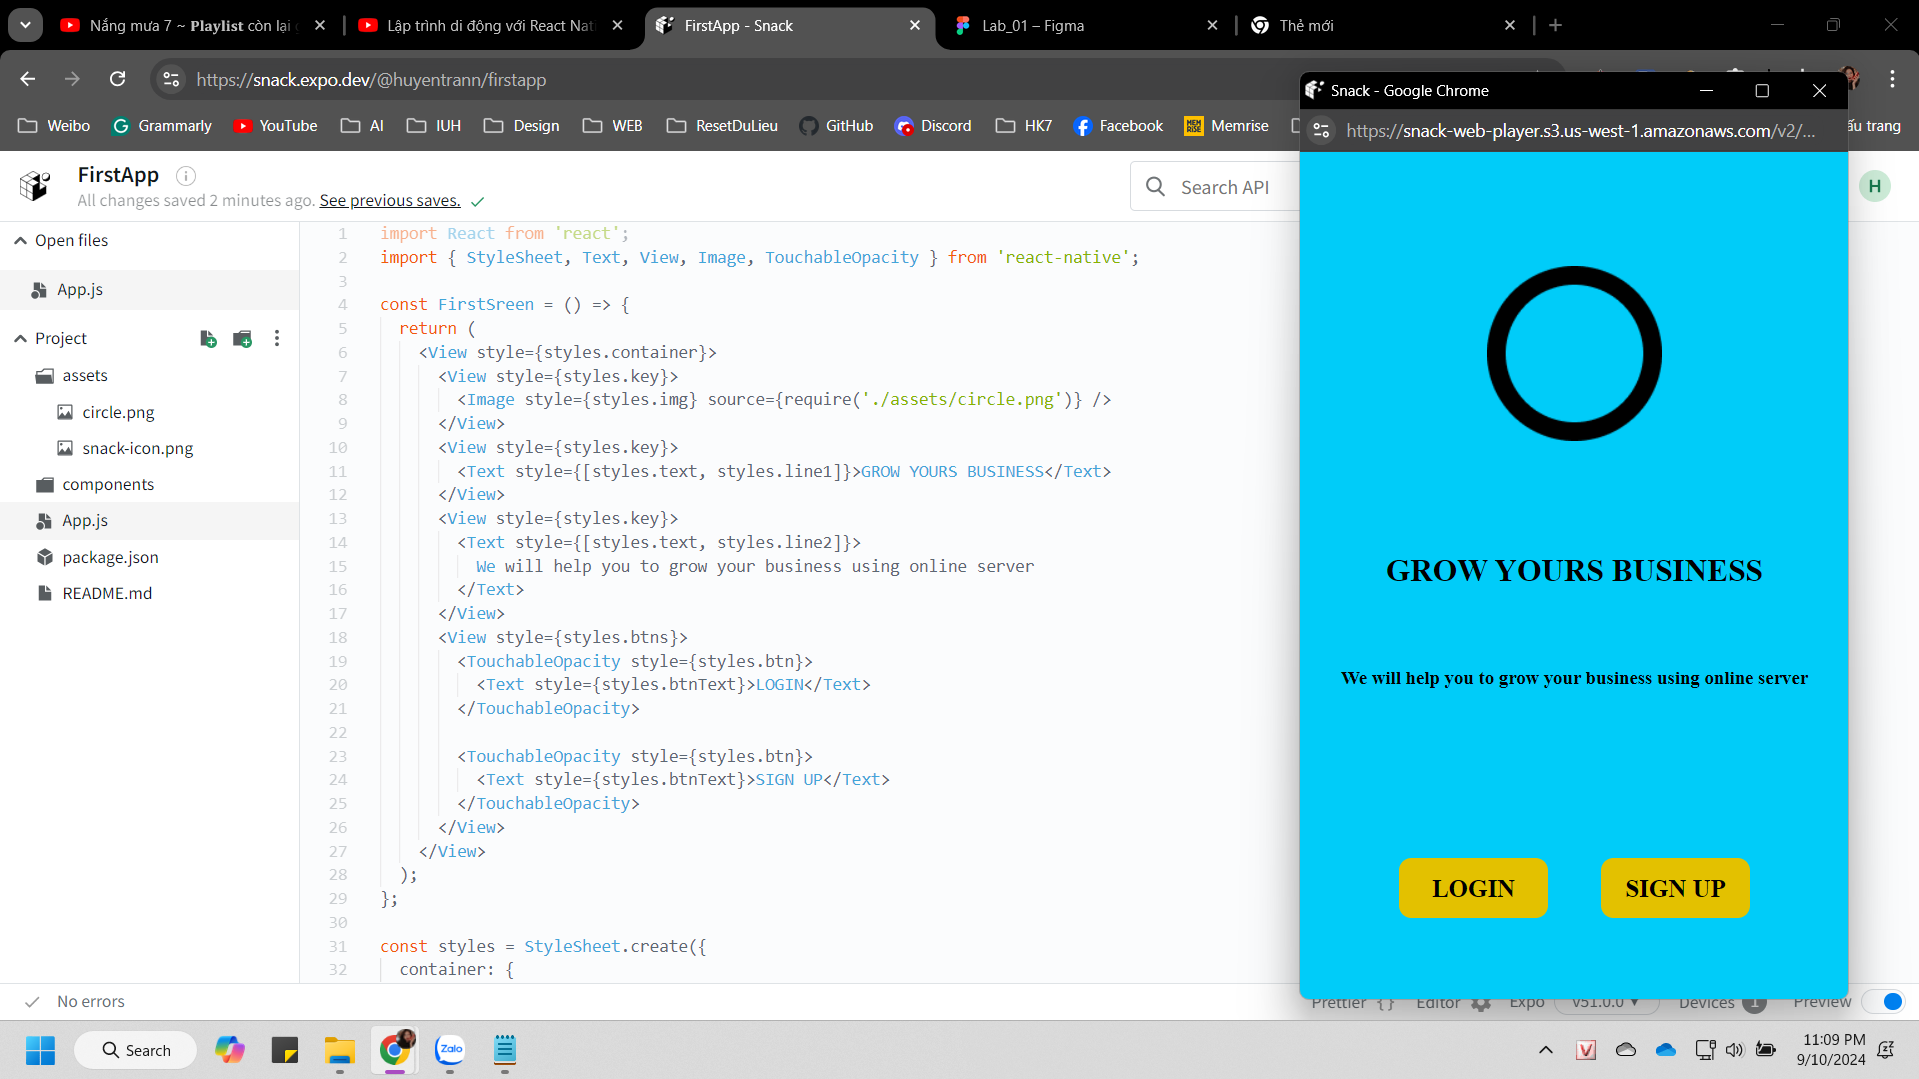
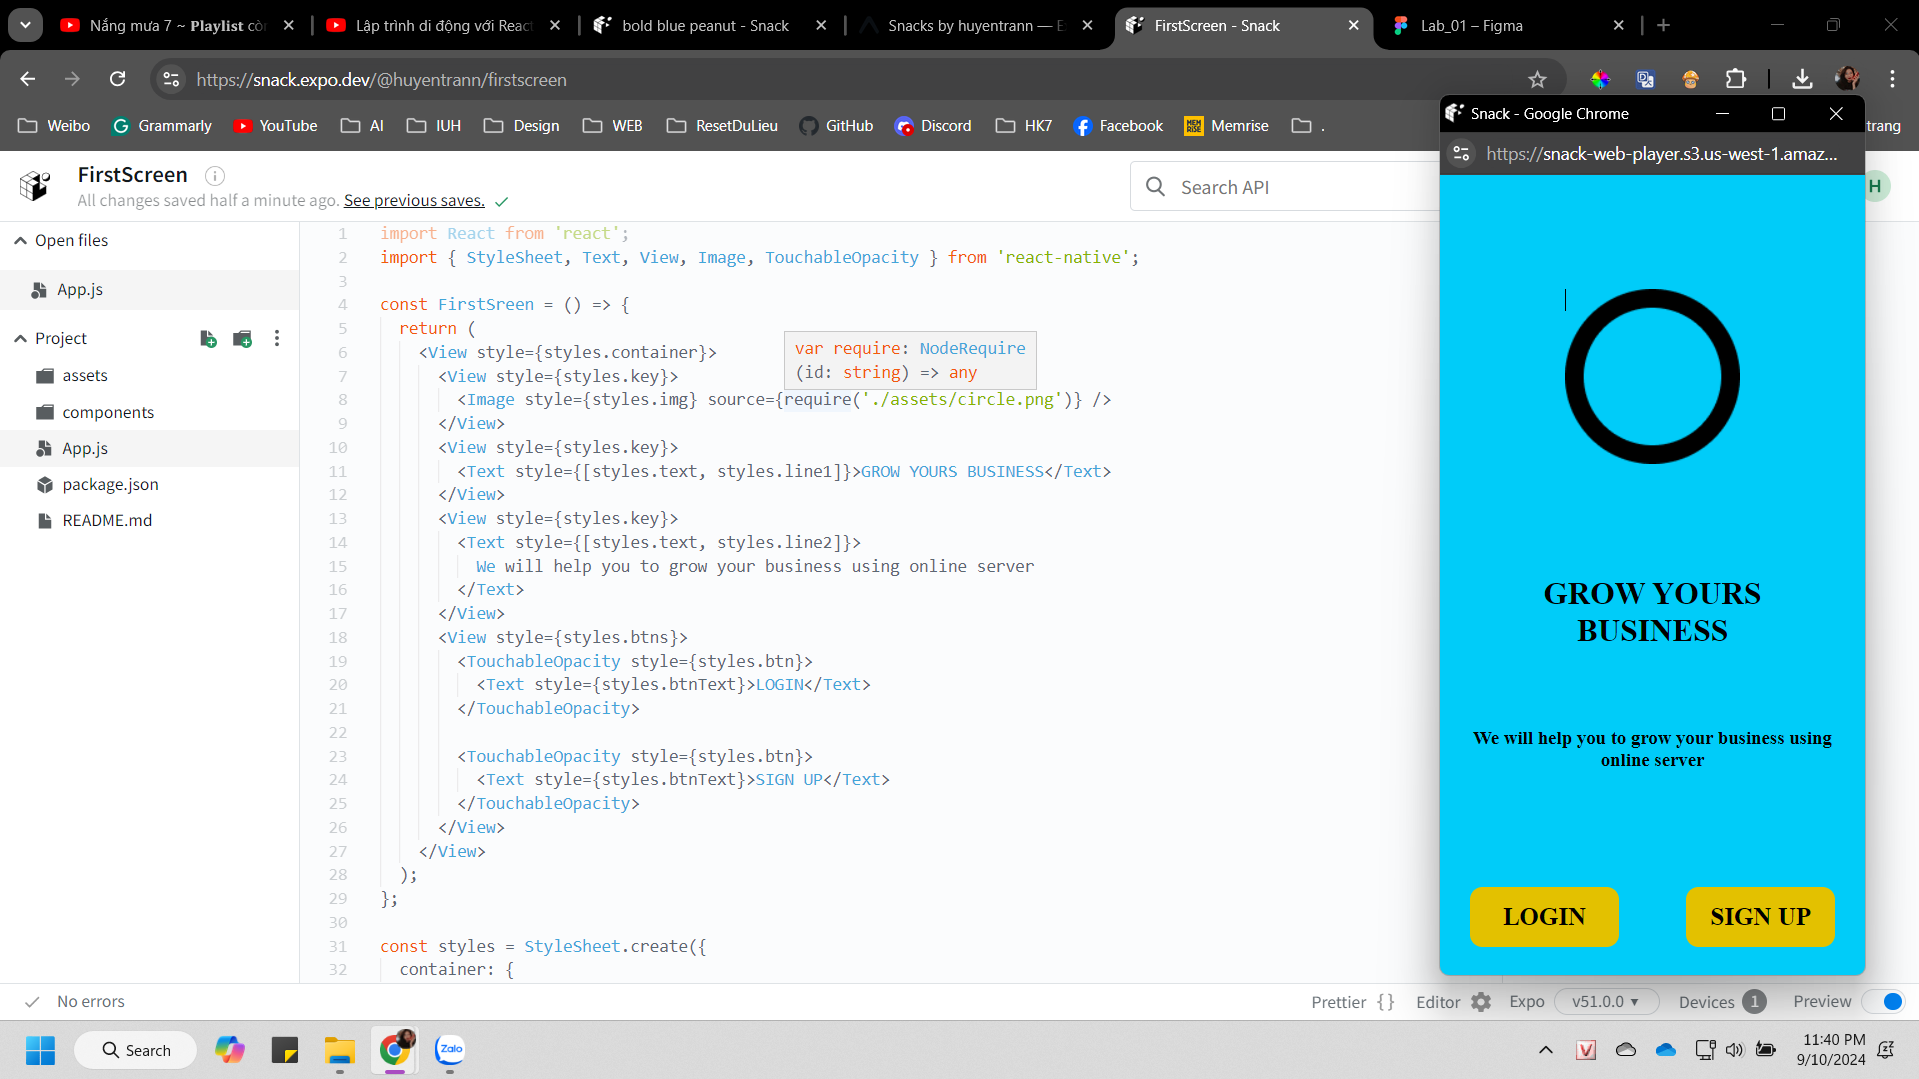
Chỉnh sửa FirstScreen

diff --git a/Tuan03/FirstSreen/App.js b/Tuan03/FirstSreen/App.js
@@ -68,9 +68,8 @@ const styles = StyleSheet.create({
   btns: {
     flex: 1,
     marginTop: 94,
-    padding: 34,
     flexDirection: 'row',
-    justifyContent: 'space-around',
+    justifyContent: 'space-between',
     alignItems: 'center',
   },
 
